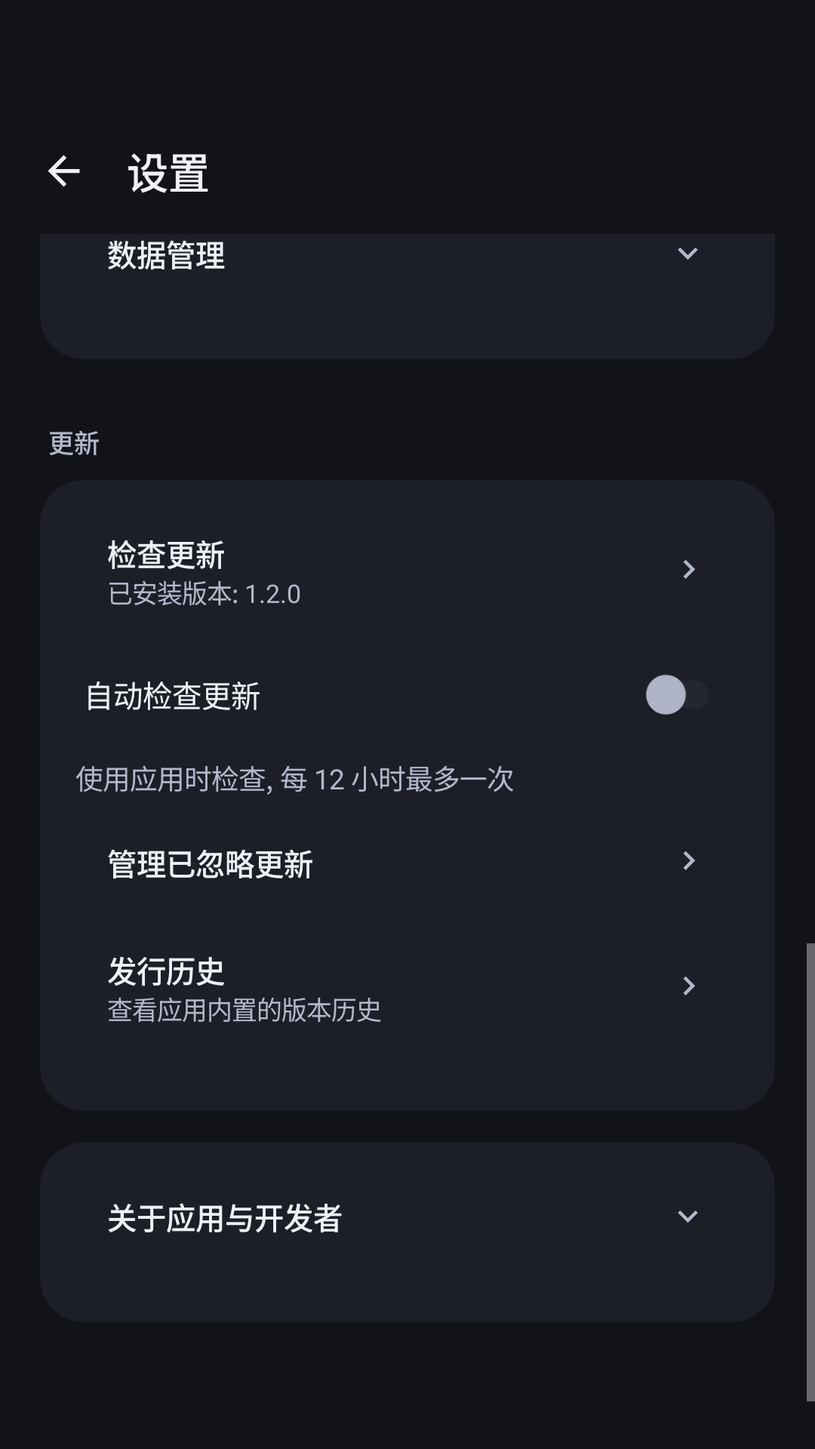
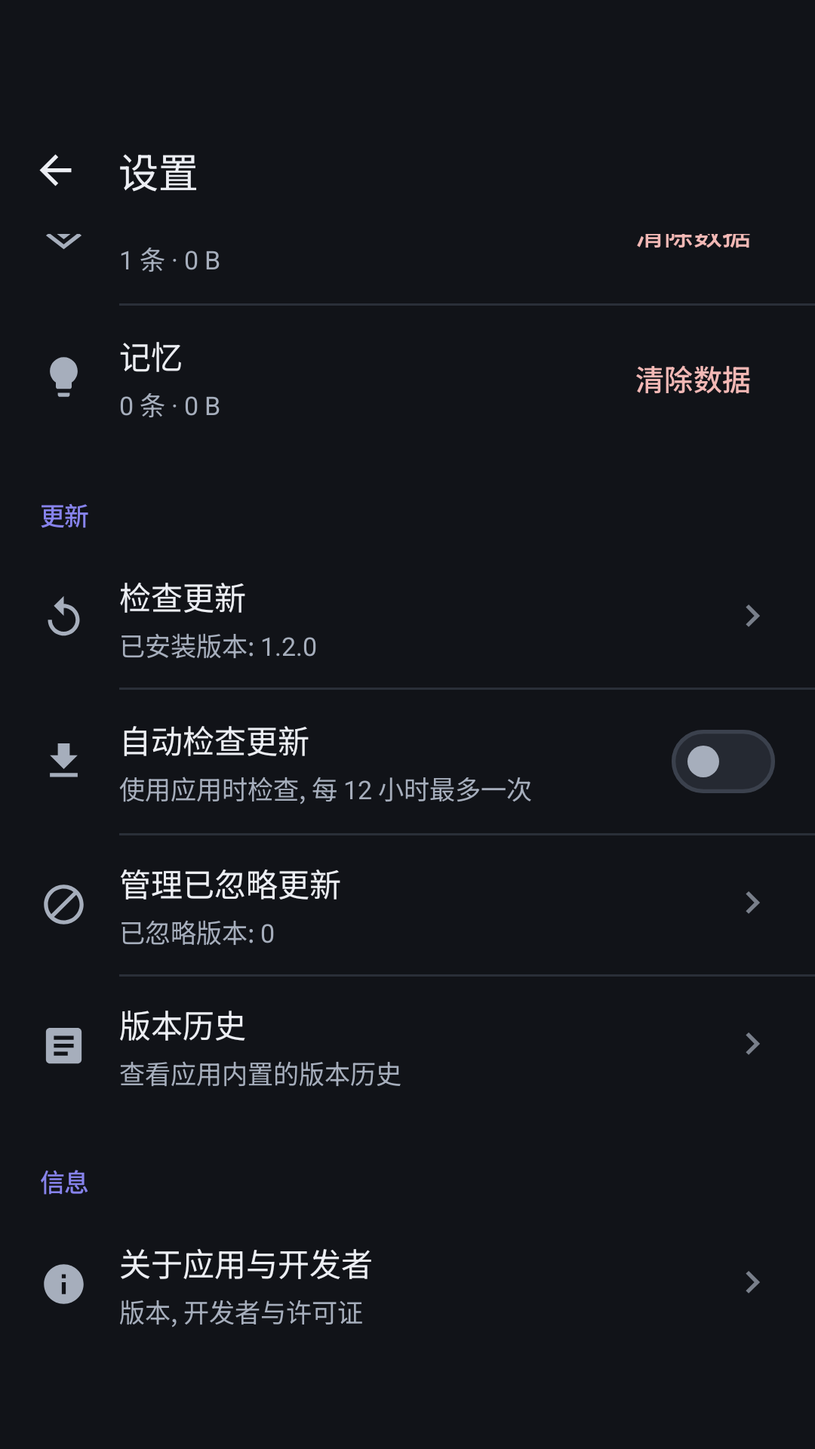
docs(ui): screenshots, roadmap decisions and verification record
Final layout fixes found by the 2x-font audit and the captures: the
confirmation countdown wraps beside the badge, the memory import review
keeps Skip and Accept in equal columns with Cancel in the page, and the
composer splits into an options row (preset chip, full access badge) and
an input row with a round Start button. The Recent tasks header no longer
appears with empty history, and sticky scrolling and the Jump to latest
chip only follow a task, never the welcome state.

Recapture all 12 interface images on the disposable API 37.1 emulator
(model images now contain only the bottom sheet), add the AGENTS section
14 toolkit rule, the roadmap session record and the Material 3 redesign
evidence with full-suite, font-scale, IME and package-size results.

diff --git a/app/src/main/java/io/github/supermonster003/autojs6/plugin/ai/agent/ui/Composer.kt b/app/src/main/java/io/github/supermonster003/autojs6/plugin/ai/agent/ui/Composer.kt
@@ -29,7 +29,13 @@ internal class Composer(private val kit: Kit, onPreset: () -> Unit, onVoice: () 
     }
     val voice = kit.iconButton(R.drawable.ic_mic, kit.string(R.string.workbench_voice), "voice", kit.palette.accent) { onVoice() }
         .apply { id = R.id.workbench_voice; visibility = View.GONE }
-    val send = kit.filledButton(kit.string(R.string.workbench_send), "send") { onSend() }.apply { id = R.id.workbench_send }
+    /** Round send button; its label is the accessible name "Start task". */
+    val send = kit.filledButton("", "send") { onSend() }.apply {
+        id = R.id.workbench_send; contentDescription = kit.string(R.string.workbench_send)
+        setIconResource(R.drawable.ic_send); iconPadding = 0; iconSize = kit.dp(22)
+        iconGravity = com.google.android.material.button.MaterialButton.ICON_GRAVITY_TEXT_START
+        setPaddingRelative(0, 0, 0, 0); minWidth = kit.dp(Ui.TOUCH_TARGET); minimumWidth = kit.dp(Ui.TOUCH_TARGET)
+    }
     val error: TextView = kit.text("", Ui.TEXT_SECONDARY, kit.palette.danger).apply {
         id = R.id.workbench_error; visibility = View.GONE; textAlignment = View.TEXT_ALIGNMENT_VIEW_START
         accessibilityLiveRegion = View.ACCESSIBILITY_LIVE_REGION_ASSERTIVE
@@ -40,18 +46,22 @@ internal class Composer(private val kit: Kit, onPreset: () -> Unit, onVoice: () 
         background = kit.roundedFill(kit.palette.surface, Ui.RADIUS_SHEET, kit.palette.outline)
         elevation = kit.dp(6).toFloat()
         setPaddingRelative(kit.dp(Ui.SPACE_LG), kit.dp(Ui.SPACE_MD), kit.dp(Ui.SPACE_MD), kit.dp(Ui.SPACE_SM))
-        addView(fieldPair.first, LinearLayout.LayoutParams(-1, -2).apply { marginEnd = kit.dp(Ui.SPACE_XS) })
-        addView(error, LinearLayout.LayoutParams(-1, -2))
+        // Options row: the preset chip may use the full width, so it never competes with the actions.
         addView(LinearLayout(kit.context).apply {
             orientation = LinearLayout.HORIZONTAL; gravity = Gravity.CENTER_VERTICAL
-            // The chip keeps its natural width but never pushes the actions out of the row.
             addView(android.widget.FrameLayout(kit.context).apply {
                 addView(preset, android.widget.FrameLayout.LayoutParams(-2, -2, Gravity.START or Gravity.CENTER_VERTICAL))
             }, LinearLayout.LayoutParams(0, -2, 1f).apply { marginEnd = kit.dp(Ui.SPACE_SM) })
             addView(fullAccess, LinearLayout.LayoutParams(-2, -2).apply { marginEnd = kit.dp(Ui.SPACE_XS) })
-            addView(voice, LinearLayout.LayoutParams(kit.dp(Ui.TOUCH_TARGET), kit.dp(Ui.TOUCH_TARGET)))
-            addView(send, LinearLayout.LayoutParams(-2, -2).apply { marginStart = kit.dp(Ui.SPACE_XS) })
+        }, LinearLayout.LayoutParams(-1, -2))
+        // Input row: the goal field grows; voice and send keep fixed 48dp targets beside it.
+        addView(LinearLayout(kit.context).apply {
+            orientation = LinearLayout.HORIZONTAL; gravity = Gravity.BOTTOM
+            addView(fieldPair.first, LinearLayout.LayoutParams(0, -2, 1f))
+            addView(voice, LinearLayout.LayoutParams(kit.dp(Ui.TOUCH_TARGET), kit.dp(Ui.TOUCH_TARGET)).apply { marginStart = kit.dp(Ui.SPACE_XS); bottomMargin = kit.dp(4) })
+            addView(send, LinearLayout.LayoutParams(kit.dp(52), kit.dp(52)).apply { marginStart = kit.dp(Ui.SPACE_XS); bottomMargin = kit.dp(2) })
         }, LinearLayout.LayoutParams(-1, -2).apply { topMargin = kit.dp(Ui.SPACE_XS) })
+        addView(error, LinearLayout.LayoutParams(-1, -2))
     }
 
     fun showPreset(label: String, available: Boolean) {

diff --git a/app/src/androidTest/java/io/github/supermonster003/autojs6/plugin/ai/agent/ui/WorkbenchActivityTest.kt b/app/src/androidTest/java/io/github/supermonster003/autojs6/plugin/ai/agent/ui/WorkbenchActivityTest.kt
@@ -1600,6 +1600,7 @@ class WorkbenchActivityTest {
                         waitUi(scenario, "Demo answer field") { it.findViewById<EditText>(R.id.workbench_answer)?.isLaidOut == true }
                         scenario.onActivity { it.findViewById<EditText>(R.id.workbench_answer).setText("English") }
                         instrumentation.waitForIdleSync()
+                        SystemClock.sleep(600) // Let the field's floating-label animation finish before rendering.
                         scenario.onActivity { ReadmeCapture.save(it.window.decorView, "workbench") }
                         scenario.onActivity {
                             val card = it.findViewById<LinearLayout>(R.id.workbench_pending)
@@ -1658,11 +1659,12 @@ class WorkbenchActivityTest {
                     waitUi(scenario, "Redesign picker ready") { sheetRow(it, "model-workbench:second")?.isLaidOut == true }
                     instrumentation.waitForIdleSync()
                     scenario.onActivity {
-                        ReadmeCapture.save(it.models.sheet.handle!!.dialog.window!!.decorView, "models-$dark")
+                        // Only the sheet itself; the dialog window around it is transparent.
+                        ReadmeCapture.save(it.models.sheet.handle!!.dialog.findViewById(com.google.android.material.R.id.design_bottom_sheet)!!, "models-$dark")
                         sheetRow(it, "model-workbench:second")!!.performClick()
                         it.findViewById<EditText>(R.id.workbench_goal).setText("帮我整理今天的待办, 并按优先级安排执行顺序.")
                     }
-                    instrumentation.waitForIdleSync()
+                    instrumentation.waitForIdleSync(); SystemClock.sleep(600)
                     scenario.onActivity { ReadmeCapture.save(it.window.decorView, "home-$dark") }
                 }
                 ActivityScenario.launch(SettingsActivity::class.java).use { scenario ->

diff --git a/app/src/main/java/io/github/supermonster003/autojs6/plugin/ai/agent/ui/MemoryActivity.kt b/app/src/main/java/io/github/supermonster003/autojs6/plugin/ai/agent/ui/MemoryActivity.kt
@@ -229,11 +229,13 @@ class MemoryActivity : HostAppearanceActivity() {
         val available = row.scope in scopes
         if (!available) page.addView(Banner(kit).apply { show(getString(R.string.memory_scope_missing), Tone.WARNING, R.drawable.ic_warning) }.view,
             LinearLayout.LayoutParams(-1, -2).apply { topMargin = kit.dp(Ui.SPACE_MD) })
-        bar.addView(kit.textButton(getString(R.string.memory_cancel_import), "memory-cancel-import") { imports = emptyList(); importIndex = 0; refresh() })
-        bar.addView(View(this), LinearLayout.LayoutParams(0, 1, 1f))
+        page.addView(kit.textButton(getString(R.string.memory_cancel_import), "memory-cancel-import") { imports = emptyList(); importIndex = 0; refresh() },
+            LinearLayout.LayoutParams(-2, -2).apply { topMargin = kit.dp(Ui.SPACE_LG) })
+        // Equal shares: at large text sizes both labels wrap instead of overflowing the bar.
         bar.addView(kit.tonalButton(getString(R.string.memory_skip), "memory-skip") { nextImport() },
-            LinearLayout.LayoutParams(-2, -2).apply { marginEnd = kit.dp(Ui.SPACE_SM) })
-        bar.addView(kit.filledButton(getString(R.string.memory_accept), "memory-accept") { save(row, before, true) { nextImport() } }.apply { isEnabled = available })
+            LinearLayout.LayoutParams(0, -2, 1f).apply { marginEnd = kit.dp(Ui.SPACE_SM) })
+        bar.addView(kit.filledButton(getString(R.string.memory_accept), "memory-accept") { save(row, before, true) { nextImport() } }.apply { isEnabled = available },
+            LinearLayout.LayoutParams(0, -2, 1f))
     }
     private fun nextImport() {
         importIndex++

diff --git a/app/src/main/java/io/github/supermonster003/autojs6/plugin/ai/agent/ui/PendingCard.kt b/app/src/main/java/io/github/supermonster003/autojs6/plugin/ai/agent/ui/PendingCard.kt
@@ -164,11 +164,13 @@ internal class PendingCard(
             setImageDrawable(kit.tintedDrawable(icon, color)); importantForAccessibility = View.IMPORTANT_FOR_ACCESSIBILITY_NO
         }, LinearLayout.LayoutParams(kit.dp(20), kit.dp(20)).apply { marginEnd = kit.dp(Ui.SPACE_SM) })
         label?.let { row.addView(kit.badge(it, tone)) }
-        row.addView(View(container.context), LinearLayout.LayoutParams(0, 1, 1f))
-        if (deadline != null) countdown = kit.text("", Ui.TEXT_CAPTION, kit.palette.muted).apply {
-            id = R.id.interaction_countdown; accessibilityLiveRegion = View.ACCESSIBILITY_LIVE_REGION_NONE
-            row.addView(this, LinearLayout.LayoutParams(-2, -2).apply { marginStart = kit.dp(Ui.SPACE_SM) })
+        // The countdown takes the remaining width and wraps there, so large text never pushes it out.
+        val remaining = kit.text("", Ui.TEXT_CAPTION, kit.palette.muted).apply {
+            gravity = Gravity.END; textAlignment = View.TEXT_ALIGNMENT_VIEW_END
+            accessibilityLiveRegion = View.ACCESSIBILITY_LIVE_REGION_NONE
         }
+        row.addView(remaining, LinearLayout.LayoutParams(0, -2, 1f).apply { marginStart = kit.dp(Ui.SPACE_SM) })
+        if (deadline != null) countdown = remaining.apply { id = R.id.interaction_countdown }
         add(row)
     }
     private fun title(text: String) = kit.text(text, Ui.TEXT_TITLE, kit.palette.text, medium = true).apply {

diff --git a/app/src/main/java/io/github/supermonster003/autojs6/plugin/ai/agent/ui/LauncherActivity.kt b/app/src/main/java/io/github/supermonster003/autojs6/plugin/ai/agent/ui/LauncherActivity.kt
@@ -218,11 +218,13 @@ class LauncherActivity : HostAppearanceActivity(), FeedActions {
         val revealQuestion = request != null && request != lastPendingId
         lastPendingId = request
         views.scroll.post {
+            // Sticky scrolling follows a task; the welcome state and first load keep their position.
             when {
-                row != null && revealCurrent -> { revealCurrent = false; reveal(views.feed.current) }
-                row != null && revealQuestion -> reveal(views.feed.pending)
+                row == null -> views.jump.visibility = View.GONE
+                revealCurrent -> { revealCurrent = false; reveal(views.feed.current) }
+                revealQuestion -> reveal(views.feed.pending)
                 wasAtEnd -> scrollToEnd(false)
-                views.feed.view.height > before && !atEnd() -> views.jump.visibility = View.VISIBLE
+                before > 0 && views.feed.view.height > before && !atEnd() -> views.jump.visibility = View.VISIBLE
             }
         }
         updateSend()

diff --git a/app/src/main/java/io/github/supermonster003/autojs6/plugin/ai/agent/ui/ConfirmationActivity.kt b/app/src/main/java/io/github/supermonster003/autojs6/plugin/ai/agent/ui/ConfirmationActivity.kt
@@ -49,7 +49,8 @@ class ConfirmationActivity : HostAppearanceActivity() {
             accessibilityLiveRegion = View.ACCESSIBILITY_LIVE_REGION_POLITE; textAlignment = View.TEXT_ALIGNMENT_VIEW_START
             content.addView(this, LinearLayout.LayoutParams(-1, -2).apply { topMargin = kit.dp(Ui.SPACE_LG) })
         }
-        val pending = LinearLayout(this).apply { id = R.id.workbench_pending; orientation = LinearLayout.VERTICAL; content.addView(this) }
+        val pending = LinearLayout(this).apply { id = R.id.workbench_pending; orientation = LinearLayout.VERTICAL }
+        content.addView(pending, LinearLayout.LayoutParams(-1, -2).apply { topMargin = kit.dp(Ui.SPACE_LG) })
         content.addView(kit.textButton(getString(R.string.interaction_later), "interaction-later") { finish() },
             LinearLayout.LayoutParams(-2, -2).apply { gravity = android.view.Gravity.END; topMargin = kit.dp(Ui.SPACE_SM) })
         setContentView(androidx.core.widget.NestedScrollView(this).apply { isFillViewport = true; addView(content) })

diff --git a/app/src/main/java/io/github/supermonster003/autojs6/plugin/ai/agent/ui/WorkbenchFeed.kt b/app/src/main/java/io/github/supermonster003/autojs6/plugin/ai/agent/ui/WorkbenchFeed.kt
@@ -81,7 +81,8 @@ internal class WorkbenchFeed(private val kit: Kit, private val actions: FeedActi
     }
     private var row: JsonObject? = null
     private var runId: String? = null
-    private var recentKey = ""
+    /** Null until the first render, so an empty history still hides the section header. */
+    private var recentKey: String? = null
     private var welcomeShown: Boolean? = null
 
     init {

diff --git a/docs/dev/standalone-ui-material3-2026-09-27.md b/docs/dev/standalone-ui-material3-2026-09-27.md
@@ -1,0 +1,141 @@
+# Standalone app Material 3 redesign and shared model switcher (2026-09-27)
+
+Maintainer request: the previous standalone redesign (build 93, [record](standalone-ui-redesign-2026-09-26.md)) still felt fragmented. Redesign every standalone screen for consistency, completeness and detail. Make switching online models fast without presets. Put a top-right overflow menu with Settings on the home screen. Give Settings the items inherited from AutoJs6 (language, dark mode, theme color, check for updates, automatic update checks, ignored updates, version history, about app and developer), modeled on AutoJs6-Plugin-Three-Stone-AI.
+
+The maintainer chose four options on 2026-09-27:
+
+1. Align the toolkit with Three-Stone AI.
+2. Make the home screen a task feed with a docked composer and the model capsule in the top bar.
+3. Keep models independent of presets.
+4. Redesign all pages in phased commits.
+
+The earlier constraint still holds: choosing Full access shows only an inline warning, never a dialog. The choices are recorded as roadmap decisions D45 (toolkit) and D46 (models). No roadmap phase was added, split or dropped. There were no public AIDL, permission, host or reference-plugin changes.
+
+## Commits
+
+| Build | Commit | Scope |
+| --- | --- | --- |
+| 95 | df48060 | AppCompat 1.7.1 + Material Components 1.13.0, Material 3 themes, `HostAppearanceActivity` on AppCompat, `ui/kit` |
+| 96 | 0c4f7e9 | Immediate settings (no Save button), About screen, document viewer |
+| 97 | 89cb6ca | Shared model switcher independent of presets, private model record in history |
+| 98 | 9099d56 | Readable confirmations with parameter tables, Material floating panel |
+| 99 | cc244af | Task feed workbench with docked composer, connection banner, keyed timeline |
+| 100 | 0aca0d9 | Searchable history, run detail timeline, Activity Result document saves |
+| 101 | db9b9c9 | Presets, memory, MCP servers and script directories on the kit; legacy helpers removed |
+| 102 | this record | Final layout fixes, screenshots, roadmap and AGENTS updates, verification |
+
+## Design
+
+- **Toolkit (D45).**
+  - Every screen is built in Kotlin through `ui/kit`, with no XML layouts or Compose. The kit provides tokens, the `AgentPalette` / `AgentColorPolicy` colors, scaffold and insets, rows, buttons, cards, dialogs, bottom sheets, chips and feedback.
+  - The accent keeps at least 4.5:1 contrast against the background, the surface and its own tonal fill.
+  - Host or custom theme colors tint controls at runtime.
+  - `localeFilters` keeps only the app's 10 languages from library resources.
+  - Kit builders take a `Kit(context, palette)`, so the `:agent` overlay and `PendingCard` use the same styling.
+- **Home.**
+  - The top bar has the title, the model capsule, History and an overflow menu (New task, Presets, Memory, Script directories, MCP servers, Settings).
+  - One connection banner covers every non-attached host state and hides once attached.
+  - The feed shows a welcome state (example goals and recent tasks) or the current task. The current task shows the goal, state, model and preset, the full access badge, progress, limits, keyed steps, the inline confirmation card, the accessibility fallback and the result.
+  - Rendering is incremental, so the 500 ms poll never rebuilds the feed. Scrolling is sticky and follows only a task; a "Jump to latest" chip appears when new task content arrives out of view.
+  - The composer is docked above the keyboard (`adjustResize` plus edge-to-edge insets). It has two rows: an options row with the preset chip and the full access badge, then an input row with the goal field, voice and a round Start button.
+  - Run again and Retry with another model only fill the composer; they never start a task.
+- **Models (D46).**
+  - The workbench and the floating ball share `filesDir/model-selection.json`: the current choice, 8 recent and 16 pinned models. The format is closed; anything unreadable fails closed to Automatic.
+  - Automatic means the first on-device target, otherwise the first target. The broker and the sheet preview share this rule.
+  - The bottom sheet offers search, Automatic with its preview, pinned and recent models, locality groups, tool-calling and image-input badges, and an Unavailable row for a model that has disappeared.
+  - Plugin UI tasks (decided by the private endpoint) never inherit a preset's legacy `targetId`. Host and script requests keep inheritance.
+  - Private history records the requested target and the resolved model. The host projection strips both, plus the full access flag.
+- **Settings.**
+  - Sections, in order: Appearance, Tasks, Tools and data, Quick access, Data management, Updates, Information.
+  - Every change is saved at once through serialized whole-object saves, with optimistic rendering and rollback.
+  - Full access shows only a red inline note.
+  - Tool groups and limits open bottom sheets; durations are in minutes.
+  - About shows the version, developer, source, license and third-party notices. Version history and notices open in a scaffolded document viewer.
+- **Confirmations and floating ball.**
+  - Confirmation cards show a risk badge, the localized tool group and tool, the description and a parameter table instead of raw JSON. The actions are Allow once (filled), Always allow for this session (tonal) and Deny (outlined danger).
+  - `ConfirmationActivity` keeps `FLAG_SECURE`.
+  - The floating ball uses a Material 3 themed context and inline panels only (no dialogs or popups in the overlay). Its model row opens the shared switcher.
+- **History and detail.**
+  - History has search, status chips, a preset chip and a Material date range picker, and a destructive "clear finished" action.
+  - The detail screen shows the model, duration and limits, a shared step timeline with parameter tables and expandable observations, and a menu to export diagnostics, delete the record or use the task's model.
+- **Management screens.**
+  - Presets: cards with a row menu and a full-page editor.
+  - Memory: search, scope chips and the import review.
+  - MCP servers: a risk choice, the write-only token field and a tool checklist.
+  - Script directories: validation errors under the field.
+  - Every editor asks before discarding unsaved changes.
+  - `AgentUi`, `HistoryViews`, `AgentDialogs`, the spinner layout and the collapsible-section state were removed.
+
+## Dependencies and package size
+
+AppCompat 1.7.1 and Material Components for Android 1.13.0 (Apache-2.0) are added with their AndroidX runtime dependencies. Coordinates, SHA-256 hashes and the transitive list are in `THIRD_PARTY_NOTICES.md`, and the v1.2.0 changelog has a `dependency` entry. The app still has no native libraries and passes the native-page-alignment guard.
+
+| Release APK (unsigned name, R8) | Bytes |
+| --- | --- |
+| build 93, previous redesign (signed release) | 826488 |
+| build 94, before the dependency | 846324 |
+| build 95, AppCompat + Material, `localeFilters` | 1952497 |
+| build 96 | 2119353 |
+| build 97 | 2130994 |
+| build 100 | 2323016 |
+| build 101 | 2327192 |
+| build 102, final | 2327936 |
+
+## Tests added or rewritten
+
+- JVM:
+  - `AgentColorPolicyTest` and `KitContrastTest`, for WCAG contrast of accents, tonal fills and custom seeds in light and dark;
+  - `SettingsDraft`;
+  - `ModelSelectionCodecTest`;
+  - `AutomaticTargetTest`;
+  - preset admission (UI tasks ignore preset models, scripts keep them);
+  - history codec and host projection;
+  - `ArgumentRows`;
+  - `RunHistoryFilter` query.
+- Instrumentation:
+  - Settings, About, the model sheet, workbench feed, history and detail, presets, memory, MCP, script roots, confirmation and floating tests were rewritten for the new widgets. They keep the existing ids and tags where possible.
+  - `UiAccessibilityAudit` checks labels, 48 dp targets, parent bounds and clipped text. Only labels with an explicit truncatable role and a full content description may ellipsize.
+
+The new checks found and fixed these problems:
+
+- dark default tonal text at 3.97:1;
+- a 2x-font overflow of the confirmation countdown and the memory review bar;
+- a preset chip below 48 dp with extreme text;
+- a "Recent tasks" header shown with empty history;
+- the "Jump to latest" chip appearing over the welcome state;
+- an empty toolbar menu measured as a zero-width RTL control;
+- a sheet handle not cleared synchronously on dismiss.
+
+No layout threshold, identity check or confirmation policy was relaxed.
+
+## Verification
+
+The final source (build 102) passed `:app:testDebugUnitTest :app:assembleDebug :app:assembleDebugAndroidTest :app:lintDebug :app:assembleRelease` in one Gradle run under the Temurin 21 emulation, with a single platform version banner:
+
+- JVM: 617 tests, 0 failures, 0 errors, 1 existing performance opt-in skip.
+- Lint: 0 errors and 8 warnings. The warnings are dependency and plugin versions, two duplicate launcher icon configurations, the `AgentRuntime` static context and the unused round launcher icon.
+- R8 release: no missing classes, no native libraries.
+- `py .python/generate_markdown.py --check` passed (10 languages, 36 artifacts). The string check found the same 353 keys in all 11 `values*` folders, with no unused keys. `git diff --check` was clean.
+
+The signed digest archive (`appendDigestToReleasedFiles`) was not produced, because nothing is released.
+
+Device checks used only the disposable `AI_Agent_Conformance_UI_20260926` (API 37.1, x86_64, 16 KiB) and `AI_Agent_Conformance_UI24_20260926` (API 24, x86) emulators. They were set up with the guarded fake host (`run_conformance.py --prepare-only`) and driven by direct `am instrument` per verified serial. The five attached phones were never targeted.
+
+| Device | Full suite on the final source | Duration |
+| --- | --- | --- |
+| API 37.1, AI_Agent_Conformance_UI_20260926 | 128 tests: 124 passed, 0 failed, 4 skipped | 463.15 s |
+| API 24, AI_Agent_Conformance_UI24_20260926 | 122 tests: 118 passed, 0 failed, 4 skipped | 334.537 s |
+
+Each suite skips four explicit opt-in fixtures: three capture methods and one real-MCP interoperability fixture that needs an external server. Earlier full runs passed in Phase 5, Phase 7 and before the final layout fixes. The API 24 emulator crashed once when Gradle ran at the same time; it was restarted, and Gradle is never run during a device suite.
+
+Large text: the five UI audit methods ran on API 37.1 at font scale 2.0, including the Arabic dark layout. They covered settings, dialogs, sheets and documents, management screens, confirmation questions and floating states: 32 named states, 0 issues. The font scale was restored to 1.0 afterwards.
+
+IME check: the goal field was focused on both emulators. The docked composer and the Start button stayed above the keyboard, and `dumpsys input_method` reported the keyboard shown.
+
+Screenshots: all 12 images in `docs/images/` were recaptured from production views with synthetic fixtures. Provenance and hashes are in [the capture record](../images/README.md). The model images now contain only the bottom sheet (1080 x 1278). A second capture after the last code change, on freshly cleared plugin data, matched 11 images byte for byte. `detail.png` differed only in the task time and elapsed values, so the committed images were kept.
+
+## Boundaries
+
+- Only disposable emulators and synthetic model replies were used. There were no real model calls, credentials, payments or physical-device installs.
+- The keyboard and 2x-font behavior was checked on emulators only, not on vendor ROMs.
+- 1.2.0 remains an unreleased development candidate. Nothing was pushed, tagged or published.

diff --git a/docs/images/README.md b/docs/images/README.md
@@ -1,35 +1,38 @@
 # Interface captures
 
-Captured on 2026-09-26 from production views in the standalone UI redesign,
-version 1.2.0 / build 93. Android API 37.1, 16 KiB disposable emulator,
+Captured on 2026-09-27 from production views after the Material 3 redesign,
+version 1.2.0 / build 102. Android API 37.1, 16 KiB disposable emulator,
 1080 x 1920, density 420, font scale 1.0. These are interface examples with
 synthetic tasks and scripted replies, not real-model acceptance results.
 
 The four README images use English and a supported host appearance snapshot.
 The app-* images use Simplified Chinese and the app's indigo theme, in light
-and dark mode. The model names explicitly identify fixture models. The home
-draft is never submitted. Settings-more captures the bottom of the settings
-page after scrolling has finished.
+and dark mode. The model names explicitly identify fixture models. The
+app-models images contain only the model bottom sheet, without the dimmed
+window behind it. The home draft is never submitted. Settings-more captures
+the bottom of the settings page after scrolling has finished.
 
 | File | Pixels | SHA-256 |
 | --- | --- | --- |
-| app-home-dark.png | 1080 x 1920 | 0ff149edd99b0ec79ddde65c270cdcef6be3d271d413d6821c84596c00e7146a |
-| app-home-light.png | 1080 x 1920 | 090ae919bf8f83200c88474e694b2e49830a52c89bbc83c80c5cd60789dacb57 |
-| app-models-dark.png | 1024 x 1609 | c1791cb1767755ab4deaf07b0ba8575a866e38b3d33a0d7d049426d6f864ebab |
-| app-models-light.png | 1024 x 1609 | f8ba8fa9a15a3f1d663ff3de511e4244f303261efe3abb682c575006ffac6e61 |
-| app-settings-dark.png | 1080 x 1920 | f9ce24b655f480e6ff7c6a8d4519eb8c3cedddc3d53ce042d8300949cb8a6f35 |
-| app-settings-light.png | 1080 x 1920 | b6cc3ced7b456aa3ad52c1f35b806e526d8be1e90ed84b79a80c6b07b32edb1f |
-| app-settings-more-dark.png | 1080 x 1920 | 8243acdb5c123621c3d8bd6de18f0d8a680bdda6d90714b8bc4a3c46ec571d66 |
-| app-settings-more-light.png | 1080 x 1920 | 4a1a264ff85da570195b2cc8f542c5fce2358ada0f23dc5346f4bde4ed092154 |
-| confirmation.png | 1024 x 924 | c22123bd89ca5e979d0ac86dd423d9774d1ce386c1112224fda1d6a8bd365634 |
-| detail.png | 1080 x 1920 | 9d0d6918102a1b18b3625f737638938c8b200b3ec160b00d38a21318852be180 |
-| floating.png | 945 x 1234 | 40efa0f17986690cb257b49f05bf30103887fa3c1fde8ab01494fc398be2d29d |
-| workbench.png | 1080 x 1920 | 00417403073fd5cb90f7fb572f9c24e2ccdf5113c85db1e77d0d21ddbaa53421 |
+| app-home-dark.png | 1080 x 1920 | 525ca968f01821a143ed7adf582fe6418e112955427e4e2975fad5fd7469dcc2 |
+| app-home-light.png | 1080 x 1920 | f4008bdf692ad9bdf63ede2d8b057912ae095c7a77477d69fa50445e3fe09d94 |
+| app-models-dark.png | 1080 x 1278 | 761bd7af098207f45356506fea171b68ea287d394fbc9d7ed3198de93b48c221 |
+| app-models-light.png | 1080 x 1278 | 2607e04cf11c1d361487be1a7842a66e9152a7c129706e346bbfa5beb57aaaee |
+| app-settings-dark.png | 1080 x 1920 | bb0b41c5d3f7961c7b7bb48ca5cc83196a4c50b23de5958a24b0484e4aedf21d |
+| app-settings-light.png | 1080 x 1920 | ad9d16fc02dcf7f997c94e32200ae27b0fc374039c6840575e8cbea867875a08 |
+| app-settings-more-dark.png | 1080 x 1920 | b41b06974cd20faac6b934028bd4f951ed925d12561373b6eaa49451a60dc709 |
+| app-settings-more-light.png | 1080 x 1920 | 9071a12a396e0a2369e076265ca498c2182daad13a2a90597c7f2846fc39469f |
+| confirmation.png | 1024 x 1715 | d2940940a54b1c58b5fa9b33182216dea964182a32a5c98632e8400b1c4e5489 |
+| detail.png | 1080 x 1920 | 5b2340646cb30213fee18d435d8e5a0a1007249fd7972f5f292c9adb0a2954c9 |
+| floating.png | 945 x 1234 | f51581e43c7c49794cd3cd6c74e72da4947fff097143d24da0d4bbfcf991f0d2 |
+| workbench.png | 1080 x 1920 | 412c0af1b3796902c20d484f25cd258ac40162329cf09bc41e798daadeb8c977 |
 
 ## Reproduce
 
 1. Create a fresh disposable AI_Agent_Conformance_* emulator without personal
-   history. Build Debug and androidTest, then use the guarded
+   history, or run adb shell pm clear on the plugin package of such an
+   emulator after earlier test runs, because the home screen lists recent
+   tasks. Build Debug and androidTest, then use the guarded
    test-apps/fake-host/run_conformance.py --prepare-only setup on that serial.
    Install the matching app-debug-androidTest.apk. Never install this fake host
    on a real device or an emulator containing real AutoJs6 data.

diff --git a/ROADMAP.md b/ROADMAP.md
@@ -1641,3 +1641,11 @@ P5 会话完成 (2026-09-24): 原 P5 三节与 AVD/真机示例门槛已通过, 
 - 每个确认新增 "当前会话始终允许" (位于允许一次与拒绝之间), 授权键为工具, 风险等级与付款类别, 仅限本次任务; 其他敏感授权不覆盖付款. 本地紧凑提示词按 4096 token 预算收敛, 默认策略不注入 confirmationMode; 提示词快照已审阅更新.
 - 验证: JVM 595 项, 594 通过 + 1 既有性能开关跳过; Temurin 模拟下 debug/androidTest/R8 release 与 lint 通过 (0 错误 / 6 既有警告), 十语言 36 生成产物校验通过. 私有 AVD API 37.1 全量 123 项中 118 通过 / 4 显式跳过 / 1 新增设置用例因选择器位于折叠区失败, 用例改为先展开任务选项后该类 13/13; API 24 使用修正后的测试包全量 OK (117 tests, 含 4 显式跳过). 37.1 未在测试修正后重跑全量. 详见 [验证回执](docs/dev/access-policy-2026-09-27.md).
 - 仅使用两台一次性 AVD, 已按名称关闭; 连接中的五台真机未安装或更改, 无真实模型调用, 订单或付款. 1.2.0 开发候选 / build 94, 不推送/发布/改标签. 真实设备上的 Root / Shizuku 自动启动与完全访问任务尚未实测, 需要时可在已配置自动启动方式的设备上补测.
+
+### 2026-09-27: 独立应用 Material 3 重设计与共享模型切换
+
+- 按维护者新需求重新设计独立应用全部界面, 维护者选择与 3-Stone AI 对齐 (D45), 主页为任务流 + 底部输入栏, 模型独立于预设 (D46), 全部页面分阶段提交 (build 95-102, 共 8 个提交). 不新增/分拆/丢弃路线图阶段, 不改公开 AIDL, 权限, 宿主或参考插件.
+- 引入 AppCompat 1.7.1 + Material Components 1.13.0, 界面仍全部由 Kotlin 经 `ui/kit` 构建, 强调色对窗口, 卡片与自身色调填充保持 4.5:1. 主页顶栏含模型胶囊, 历史与菜单 (新建任务, 预设, 记忆, 脚本目录, MCP 服务器, 设置); 未连接时只显示一条连接横幅; 任务流增量渲染, 仅跟随任务滚动; 输入栏停靠在键盘上方. 设置即时生效且无保存按钮, 按外观, 任务, 工具与数据, 快捷入口, 数据管理, 更新, 信息分组, 完全访问只显示红色内联提示; 新增关于页面与文档查看器.
+- 任务台与悬浮球共用私有模型选择 (最近 8 个, 置顶 16 个, 自动 = 第一个本地模型否则第一个目标), 插件界面任务不继承预设旧模型, 宿主与脚本请求保持继承. 确认卡片以参数表代替原始 JSON, 悬浮球只用内联面板; 历史支持搜索, 状态/预设/日期筛选, 详情显示模型与步骤时间线; 预设, 记忆, MCP 与脚本目录统一样式并在离开前确认未保存修改. 旧 `AgentUi` 等辅助类已删除, AGENTS 第 14 节补充界面工具约定.
+- 验证: JVM 617 项, 616 通过 + 1 既有性能开关跳过; Temurin 模拟下 debug/androidTest/lint/R8 release 同次通过, lint 0 错误 / 8 既有警告, 单一版本横幅; 十语言 36 个生成产物与 353 个字符串键校验通过. 私有 AVD 最终源码全量: API 37.1 共 128 项 (124 通过 / 4 显式跳过, 463 s), API 24 共 122 项 (118 通过 / 4 显式跳过, 335 s). API 37.1 双倍字号 (含 Arabic 暗色) 5 项审计 32 个命名状态无问题; 两台输入法检查输入栏与开始按钮均在键盘上方. 新测试发现并修复了色调填充对比度, 大字号溢出, 空历史标题与欢迎页 "跳到最新" 按钮等问题, 未放宽阈值或安全检查.
+- 12 张界面截图全部重拍并记录哈希; release APK 由 build 94 的 846324 字节增至 2327936 字节 (Material 依赖, 仅保留 10 种语言资源). 仅使用两台一次性 AVD 与合成模型回复, 连接中的五台真机未安装或更改, 无真实模型调用; 1.2.0 开发候选 / build 102, 不推送/发布/改标签. 厂商 ROM 上的输入法与大字号表现尚未实测. 详见 [设计与验证记录](docs/dev/standalone-ui-material3-2026-09-27.md).

diff --git a/AGENTS.md b/AGENTS.md
@@ -212,6 +212,7 @@ AutoJs6-Plugin-AI-Agent/
 ## 14. 独立界面, 设置与发行历史 (CONDITIONAL, 路线图 P6)
 
 - 任务台与设置页默认跟随宿主的语言, 夜间模式和主题色 (`AutoJs6HostSettingsContract`), 宿主配置不可用时安全回退. 独立应用允许选择跟随系统或显式覆盖, 只保存插件自身偏好, 不修改宿主设置. 任务台与悬浮球共用同一个模型选择 (私有文件, 与预设无关, 未选择即自动, 路线图 D46), 插件界面发起的任务不得继承预设中的旧模型; 预设只承载可复用的工具, 预算, 确认策略, 上下文, 脚本目录与记忆范围.
+- 独立界面 MUST 基于 AppCompat + Material 3 (路线图 D45), 全部由 Kotlin 代码经 `ui/kit` 构建 (令牌, `AgentPalette`, 行, 按钮, 卡片, 对话框, 底部面板, 表单, 反馈), 不引入 XML 布局或 Compose, 不在界面代码中硬编码颜色; 强调色须同时对窗口, 卡片及自身色调填充保持 4.5:1 (`KitContrastTest`). 设置即时生效且没有保存按钮; 有草稿的编辑页离开前确认未保存修改. 悬浮窗只用内联面板, 不弹对话框, 弹出菜单或底部面板. 仅允许在内容说明中给出完整文本的标签省略显示 (`Ui.truncatable`).
 - 设置页 MUST 提供独立的 `版本历史` 入口 (关于页面同样提供), 按当前 locale 读取 `doc/CHANGELOG-{LANGUAGE_TAG}.md`, 找不到时回退英语.
 - 所有界面覆盖无障碍标签, RTL, 大字体, 夜间模式与进程恢复; 确认对话框与悬浮卡片不在截图或最近任务缩略图中泄露任务内容以外的敏感信息 (记忆条目不含凭据, D29).
 
